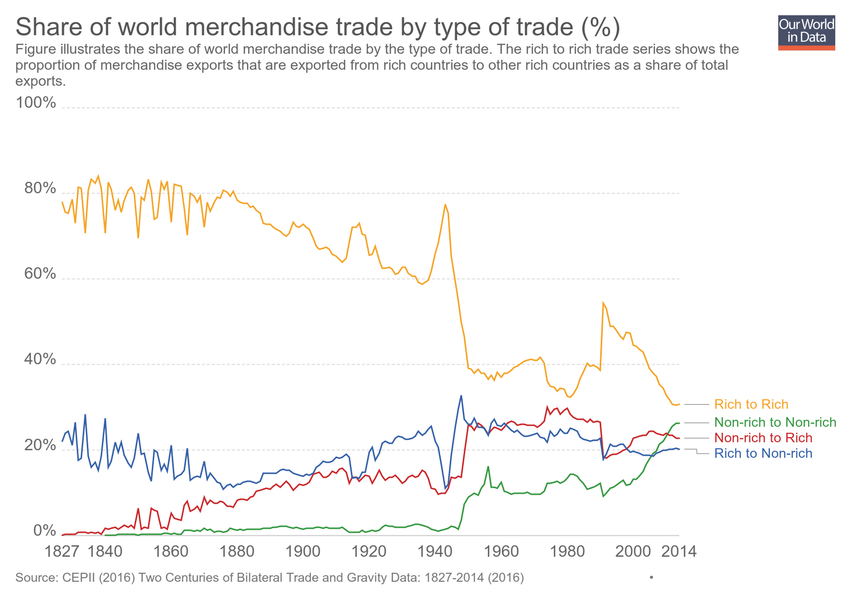
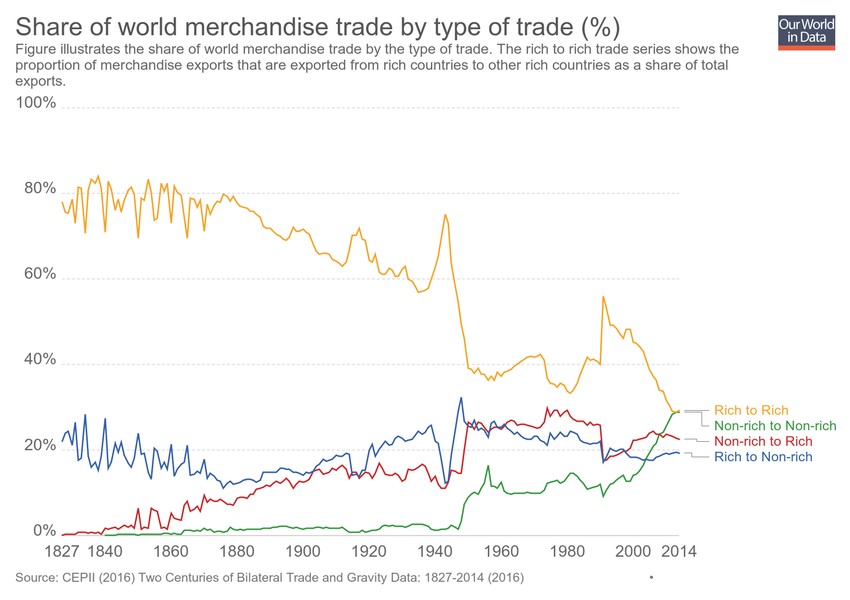
Updating chart share-of-world-merchandise-trade-by-type-of-trade-percent

diff --git a/grapher/share-of-world-merchandise-trade-by-type-of-trade-percent.html b/grapher/share-of-world-merchandise-trade-by-type-of-trade-percent.html
@@ -1,4 +1,4 @@
-<!doctype html><html><head><meta name="viewport" content="width=device-width, initial-scale=1" /><title>Share of world merchandise trade by type of trade (%) - Our World in Data</title><meta name="description" content="Figure illustrates the share of world merchandise trade by the type of trade. The rich to rich trade series shows the proportion of merchandise exports that are exported from rich countries to other rich countries as a share of total exports. " /><link rel="canonical" href="https://ourworldindata.org/grapher/share-of-world-merchandise-trade-by-type-of-trade-percent" /><meta property="fb:app_id" content="1149943818390250" /><meta property="og:url" content="https://ourworldindata.org/grapher/share-of-world-merchandise-trade-by-type-of-trade-percent" /><meta property="og:title" content="Share of world merchandise trade by type of trade (%)" /><meta property="og:description" content="Figure illustrates the share of world merchandise trade by the type of trade. The rich to rich trade series shows the proportion of merchandise exports that are exported from rich countries to other rich countries as a share of total exports. " /><meta property="og:image" content="https://ourworldindata.org/grapher/exports/share-of-world-merchandise-trade-by-type-of-trade-percent.png?v=1" /><meta property="og:image:width" content="850" /><meta property="og:image:height" content="600" /><meta property="og:site_name" content="Our World in Data" /><meta name="twitter:card" content="summary_large_image" /><meta name="twitter:site" content="@OurWorldInData" /><meta name="twitter:creator" content="@OurWorldInData" /><meta name="twitter:title" content="Share of world merchandise trade by type of trade (%)" /><meta name="twitter:description" content="Figure illustrates the share of world merchandise trade by the type of trade. The rich to rich trade series shows the proportion of merchandise exports that are exported from rich countries to other rich countries as a share of total exports. " /><meta name="twitter:image" content="https://ourworldindata.org/grapher/exports/share-of-world-merchandise-trade-by-type-of-trade-percent.png?v=1" /><style>
+<!doctype html><html><head><meta name="viewport" content="width=device-width, initial-scale=1" /><title>Share of world merchandise trade by type of trade (%) - Our World in Data</title><meta name="description" content="Figure illustrates the share of world merchandise trade by the type of trade. The rich to rich trade series shows the proportion of merchandise exports that are exported from rich countries to other rich countries as a share of total exports. " /><link rel="canonical" href="https://ourworldindata.org/grapher/share-of-world-merchandise-trade-by-type-of-trade-percent" /><meta property="fb:app_id" content="1149943818390250" /><meta property="og:url" content="https://ourworldindata.org/grapher/share-of-world-merchandise-trade-by-type-of-trade-percent" /><meta property="og:title" content="Share of world merchandise trade by type of trade (%)" /><meta property="og:description" content="Figure illustrates the share of world merchandise trade by the type of trade. The rich to rich trade series shows the proportion of merchandise exports that are exported from rich countries to other rich countries as a share of total exports. " /><meta property="og:image" content="https://ourworldindata.org/grapher/exports/share-of-world-merchandise-trade-by-type-of-trade-percent.png?v=2" /><meta property="og:image:width" content="850" /><meta property="og:image:height" content="600" /><meta property="og:site_name" content="Our World in Data" /><meta name="twitter:card" content="summary_large_image" /><meta name="twitter:site" content="@OurWorldInData" /><meta name="twitter:creator" content="@OurWorldInData" /><meta name="twitter:title" content="Share of world merchandise trade by type of trade (%)" /><meta name="twitter:description" content="Figure illustrates the share of world merchandise trade by the type of trade. The rich to rich trade series shows the proportion of merchandise exports that are exported from rich countries to other rich countries as a share of total exports. " /><meta name="twitter:image" content="https://ourworldindata.org/grapher/exports/share-of-world-merchandise-trade-by-type-of-trade-percent.png?v=2" /><style>
         html, body {
             height: 100%;
             margin: 0;
@@ -20,8 +20,8 @@
         }
     </style><noscript><style>
                     figure { display: none !important; }
-                </style></noscript><link rel="stylesheet" href="https://ourworldindata.org/grapher/assets/commons.bundle.dcbbe53805c487d5e57617b10ac73a8a.css" /><link rel="preload" href="/grapher/data/variables/97468+97467+97466+97465.json?v=1" as="fetch" crossorigin /></head><body class="singleChart"><figure data-grapher-src="/grapher/share-of-world-merchandise-trade-by-type-of-trade-percent"></figure><noscript id="fallback"><img src="/grapher/exports/share-of-world-merchandise-trade-by-type-of-trade-percent.svg" /><p>Interactive visualization requires JavaScript</p></noscript><script src="https://cdn.polyfill.io/v2/polyfill.min.js?features=es6,fetch"></script><script src="https://ourworldindata.org/grapher/assets/commons.bundle.db4e4065dcbf33bcd3d7.js"></script><script src="https://ourworldindata.org/grapher/assets/charts.bundle.db4e4065dcbf33bcd3d7.js"></script><script>
-        var jsonConfig = {"map":{"projection":"World","colorSchemeLabels":[],"colorSchemeValues":[],"customNumericColors":[],"customCategoryColors":{},"customCategoryLabels":{},"customHiddenCategories":{}},"tab":"chart","slug":"share-of-world-merchandise-trade-by-type-of-trade-percent","type":"LineChart","title":"Share of world merchandise trade by type of trade (%)","xAxis":{"scaleType":"linear"},"yAxis":{"max":100,"min":0,"scaleType":"linear"},"version":1,"subtitle":"Figure illustrates the share of world merchandise trade by the type of trade. The rich to rich trade series shows the proportion of merchandise exports that are exported from rich countries to other rich countries as a share of total exports. ","hasMapTab":false,"stackMode":"absolute","dimensions":[{"display":{"name":"Non-rich to Non-rich"},"property":"y","variableId":97468},{"display":{"name":"Non-rich to Rich"},"property":"y","variableId":97467},{"display":{"name":"Rich to Non-rich"},"property":"y","variableId":97466},{"display":{"name":"Rich to Rich"},"property":"y","variableId":97465}],"hasChartTab":true,"isPublished":true,"selectedData":[{"index":0,"entityId":355},{"index":1,"entityId":355},{"index":2,"entityId":355},{"index":3,"entityId":355}],"addCountryMode":"change-country","hideRelativeToggle":true,"hideTitleAnnotation":true,"id":2662};
+                </style></noscript><link rel="stylesheet" href="https://ourworldindata.org/grapher/assets/commons.bundle.dcbbe53805c487d5e57617b10ac73a8a.css" /><link rel="preload" href="/grapher/data/variables/97468+97467+97466+97465.json?v=2" as="fetch" crossorigin /></head><body class="singleChart"><figure data-grapher-src="/grapher/share-of-world-merchandise-trade-by-type-of-trade-percent"></figure><noscript id="fallback"><img src="/grapher/exports/share-of-world-merchandise-trade-by-type-of-trade-percent.svg" /><p>Interactive visualization requires JavaScript</p></noscript><script src="https://cdn.polyfill.io/v2/polyfill.min.js?features=es6,fetch"></script><script src="https://ourworldindata.org/grapher/assets/commons.bundle.db4e4065dcbf33bcd3d7.js"></script><script src="https://ourworldindata.org/grapher/assets/charts.bundle.db4e4065dcbf33bcd3d7.js"></script><script>
+        var jsonConfig = {"id":2662,"map":{"projection":"World","colorSchemeLabels":[],"colorSchemeValues":[],"customNumericColors":[],"customCategoryColors":{},"customCategoryLabels":{},"customHiddenCategories":{}},"tab":"chart","slug":"share-of-world-merchandise-trade-by-type-of-trade-percent","type":"LineChart","title":"Share of world merchandise trade by type of trade (%)","xAxis":{"scaleType":"linear"},"yAxis":{"max":100,"min":0,"scaleType":"linear"},"version":2,"subtitle":"Figure illustrates the share of world merchandise trade by the type of trade. The rich to rich trade series shows the proportion of merchandise exports that are exported from rich countries to other rich countries as a share of total exports. ","hasMapTab":false,"stackMode":"absolute","dimensions":[{"display":{"name":"Non-rich to Non-rich"},"property":"y","variableId":97468},{"display":{"name":"Non-rich to Rich"},"property":"y","variableId":97467},{"display":{"name":"Rich to Non-rich"},"property":"y","variableId":97466},{"display":{"name":"Rich to Rich"},"property":"y","variableId":97465}],"hasChartTab":true,"isPublished":true,"selectedData":[{"index":0,"entityId":355},{"index":1,"entityId":355},{"index":2,"entityId":355},{"index":3,"entityId":355}],"addCountryMode":"change-country","hideRelativeToggle":true,"hideTitleAnnotation":true};
         var figure = document.getElementsByTagName("figure")[0];
         try {
             window.App = {};

diff --git a/grapher/share-of-world-merchandise-trade-by-type-of-trade.html b/grapher/share-of-world-merchandise-trade-by-type-of-trade.html
@@ -1,4 +1,4 @@
-<!doctype html><html><head><meta name="viewport" content="width=device-width, initial-scale=1" /><title>Share of world merchandise trade by type of trade - Our World in Data</title><meta name="description" content="Figure illustrates the share of world merchandise trade by the type of trade. The rich to rich trade series shows the proportion of merchandise exports that are exported from rich countries to other rich countries as a share of total exports." /><link rel="canonical" href="https://ourworldindata.org/grapher/share-of-world-merchandise-trade-by-type-of-trade" /><meta property="fb:app_id" content="1149943818390250" /><meta property="og:url" content="https://ourworldindata.org/grapher/share-of-world-merchandise-trade-by-type-of-trade" /><meta property="og:title" content="Share of world merchandise trade by type of trade" /><meta property="og:description" content="Figure illustrates the share of world merchandise trade by the type of trade. The rich to rich trade series shows the proportion of merchandise exports that are exported from rich countries to other rich countries as a share of total exports." /><meta property="og:image" content="https://ourworldindata.org/grapher/exports/share-of-world-merchandise-trade-by-type-of-trade.png?v=1" /><meta property="og:image:width" content="850" /><meta property="og:image:height" content="600" /><meta property="og:site_name" content="Our World in Data" /><meta name="twitter:card" content="summary_large_image" /><meta name="twitter:site" content="@OurWorldInData" /><meta name="twitter:creator" content="@OurWorldInData" /><meta name="twitter:title" content="Share of world merchandise trade by type of trade" /><meta name="twitter:description" content="Figure illustrates the share of world merchandise trade by the type of trade. The rich to rich trade series shows the proportion of merchandise exports that are exported from rich countries to other rich countries as a share of total exports." /><meta name="twitter:image" content="https://ourworldindata.org/grapher/exports/share-of-world-merchandise-trade-by-type-of-trade.png?v=1" /><style>
+<!doctype html><html><head><meta name="viewport" content="width=device-width, initial-scale=1" /><title>Share of world merchandise trade by type of trade - Our World in Data</title><meta name="description" content="Figure illustrates the share of world merchandise trade by the type of trade. The rich to rich trade series shows the proportion of merchandise exports that are exported from rich countries to other rich countries as a share of total exports." /><link rel="canonical" href="https://ourworldindata.org/grapher/share-of-world-merchandise-trade-by-type-of-trade" /><meta property="fb:app_id" content="1149943818390250" /><meta property="og:url" content="https://ourworldindata.org/grapher/share-of-world-merchandise-trade-by-type-of-trade" /><meta property="og:title" content="Share of world merchandise trade by type of trade" /><meta property="og:description" content="Figure illustrates the share of world merchandise trade by the type of trade. The rich to rich trade series shows the proportion of merchandise exports that are exported from rich countries to other rich countries as a share of total exports." /><meta property="og:image" content="https://ourworldindata.org/grapher/exports/share-of-world-merchandise-trade-by-type-of-trade.png?v=2" /><meta property="og:image:width" content="850" /><meta property="og:image:height" content="600" /><meta property="og:site_name" content="Our World in Data" /><meta name="twitter:card" content="summary_large_image" /><meta name="twitter:site" content="@OurWorldInData" /><meta name="twitter:creator" content="@OurWorldInData" /><meta name="twitter:title" content="Share of world merchandise trade by type of trade" /><meta name="twitter:description" content="Figure illustrates the share of world merchandise trade by the type of trade. The rich to rich trade series shows the proportion of merchandise exports that are exported from rich countries to other rich countries as a share of total exports." /><meta name="twitter:image" content="https://ourworldindata.org/grapher/exports/share-of-world-merchandise-trade-by-type-of-trade.png?v=2" /><style>
         html, body {
             height: 100%;
             margin: 0;
@@ -20,8 +20,8 @@
         }
     </style><noscript><style>
                     figure { display: none !important; }
-                </style></noscript><link rel="stylesheet" href="https://ourworldindata.org/grapher/assets/commons.bundle.dcbbe53805c487d5e57617b10ac73a8a.css" /><link rel="preload" href="/grapher/data/variables/96428+96427+96426+96425.json?v=1" as="fetch" crossorigin /></head><body class="singleChart"><figure data-grapher-src="/grapher/share-of-world-merchandise-trade-by-type-of-trade"></figure><noscript id="fallback"><img src="/grapher/exports/share-of-world-merchandise-trade-by-type-of-trade.svg" /><p>Interactive visualization requires JavaScript</p></noscript><script src="https://cdn.polyfill.io/v2/polyfill.min.js?features=es6,fetch"></script><script src="https://ourworldindata.org/grapher/assets/commons.bundle.db4e4065dcbf33bcd3d7.js"></script><script src="https://ourworldindata.org/grapher/assets/charts.bundle.db4e4065dcbf33bcd3d7.js"></script><script>
-        var jsonConfig = {"map":{"projection":"World","colorSchemeLabels":[],"colorSchemeValues":[],"colorSchemeMinValue":0,"customNumericColors":[],"customCategoryColors":{},"customCategoryLabels":{},"customHiddenCategories":{}},"tab":"chart","slug":"share-of-world-merchandise-trade-by-type-of-trade","type":"StackedArea","title":"Share of world merchandise trade by type of trade","xAxis":{"scaleType":"linear"},"yAxis":{"min":0,"scaleType":"linear"},"version":1,"subtitle":"Figure illustrates the share of world merchandise trade by the type of trade. The rich to rich trade series shows the proportion of merchandise exports that are exported from rich countries to other rich countries as a share of total exports.","hasMapTab":false,"stackMode":"relative","dimensions":[{"display":{"name":"Non-rich to Non-rich"},"property":"y","variableId":96428},{"display":{"name":"Non-rich to Rich"},"property":"y","variableId":96427},{"display":{"name":"Rich to Non-rich"},"property":"y","variableId":96426},{"display":{"name":"Rich to Rich"},"property":"y","variableId":96425}],"isAutoSlug":true,"hasChartTab":true,"isPublished":true,"selectedData":[{"index":0,"entityId":355},{"index":1,"entityId":355},{"index":2,"entityId":355},{"index":3,"entityId":355}],"addCountryMode":"disabled","hideRelativeToggle":true,"id":2501};
+                </style></noscript><link rel="stylesheet" href="https://ourworldindata.org/grapher/assets/commons.bundle.dcbbe53805c487d5e57617b10ac73a8a.css" /><link rel="preload" href="/grapher/data/variables/96428+96427+96426+96425.json?v=2" as="fetch" crossorigin /></head><body class="singleChart"><figure data-grapher-src="/grapher/share-of-world-merchandise-trade-by-type-of-trade"></figure><noscript id="fallback"><img src="/grapher/exports/share-of-world-merchandise-trade-by-type-of-trade.svg" /><p>Interactive visualization requires JavaScript</p></noscript><script src="https://cdn.polyfill.io/v2/polyfill.min.js?features=es6,fetch"></script><script src="https://ourworldindata.org/grapher/assets/commons.bundle.db4e4065dcbf33bcd3d7.js"></script><script src="https://ourworldindata.org/grapher/assets/charts.bundle.db4e4065dcbf33bcd3d7.js"></script><script>
+        var jsonConfig = {"id":2501,"map":{"projection":"World","colorSchemeLabels":[],"colorSchemeValues":[],"colorSchemeMinValue":0,"customNumericColors":[],"customCategoryColors":{},"customCategoryLabels":{},"customHiddenCategories":{}},"tab":"chart","slug":"share-of-world-merchandise-trade-by-type-of-trade","type":"StackedArea","title":"Share of world merchandise trade by type of trade","xAxis":{"scaleType":"linear"},"yAxis":{"min":0,"scaleType":"linear"},"version":2,"subtitle":"Figure illustrates the share of world merchandise trade by the type of trade. The rich to rich trade series shows the proportion of merchandise exports that are exported from rich countries to other rich countries as a share of total exports.","hasMapTab":false,"stackMode":"relative","dimensions":[{"display":{"name":"Non-rich to Non-rich"},"property":"y","variableId":96428},{"display":{"name":"Non-rich to Rich"},"property":"y","variableId":96427},{"display":{"name":"Rich to Non-rich"},"property":"y","variableId":96426},{"display":{"name":"Rich to Rich"},"property":"y","variableId":96425}],"hasChartTab":true,"isPublished":true,"selectedData":[{"index":0,"entityId":355},{"index":1,"entityId":355},{"index":2,"entityId":355},{"index":3,"entityId":355}],"addCountryMode":"disabled","hideRelativeToggle":true};
         var figure = document.getElementsByTagName("figure")[0];
         try {
             window.App = {};
